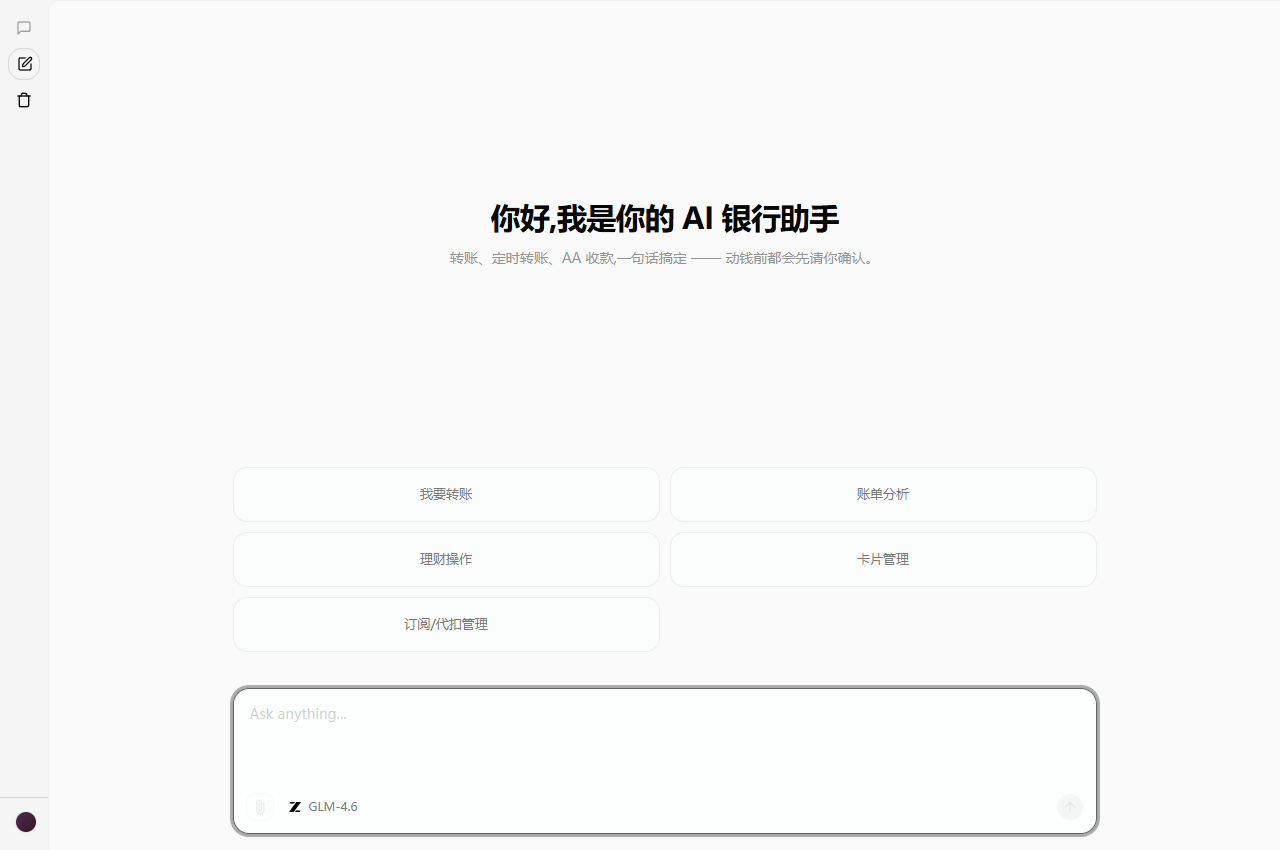
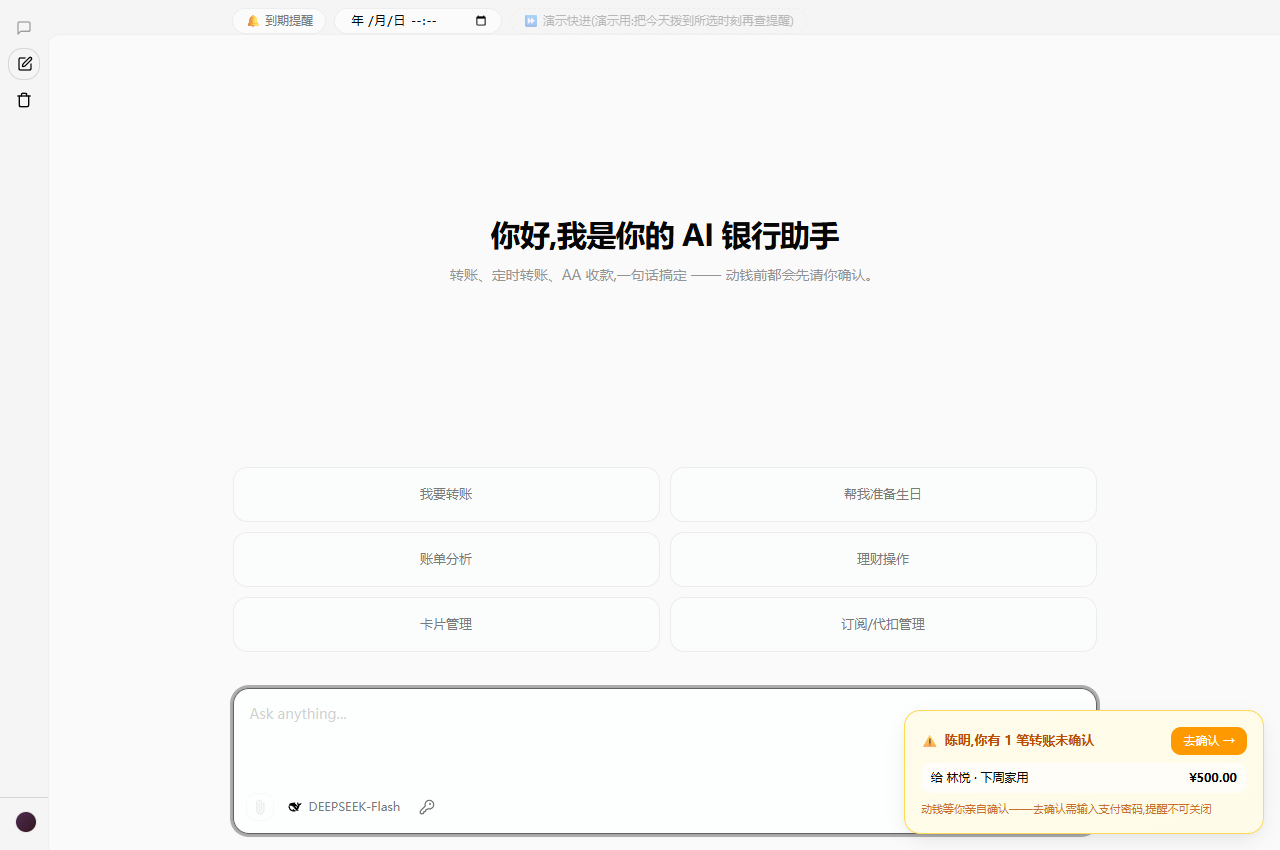
手机端 UI 适配:银行卡片窄屏排版 + 悬浮提醒让位输入区 + 手机端 e2e
审计结论先行:vercel/chatbot 模板骨架本就移动优先(侧栏底部抽屉/artifact
全屏/流式宽度),零改动继承;真正要做的是自研银行卡片与两个弹层。

- bank-parts.tsx 窄屏排版:Row 值列 min-w-0 + anywhere 换行(长限额串/
  联动预算单不再挤爆 label);联动计划动作行 flex-wrap(左右长文本可折行,
  值行右对齐);订阅行/联系人行的长文本同样兜底。
- 修实测撞出的移动端阻断 bug:待确认转账常驻提醒(fixed 右下)在 375px
  下宽 345px,整片盖住聊天输入区,有悬空单时用户无法打字——手机端改为
  顶部横幅(md+ 保持右下角卡片),基线截图 gui-test-mobile-20261014。
- 弹层宽度:model-selector(280px)/api-key-settings(w-80)改为 vw 封顶,
  320-360px 小屏不再顶出屏幕。
- 新增 webui/e2e-mobile-check.mjs:375x812 全流程(登录→转账→支付密码卡→
  扣款),硬断言无横向溢出、金色卡右边界在视口内、提醒不遮输入区,清场
  取消待确认单不留悬空资金;实测 ALL PASSED,DB 对账 executed/cancelled。
- 修 e2e-check.mjs 存量断链:2026-09-28 实名制上线后老脚本无登录步骤
  早已跑不通(铁律 4 引用的命令失效),补登录+支付密码步骤,实测恢复绿。
- test_llm_autoselect 补环境隔离(monkeypatch delenv):本机用户环境变量
  残留 ZAI_MODEL 会盖过 fallback 断言造成假失败,与代码无关但挡全绿。
- api-key-settings 顺手清掉初始快照遗留的 noJsxPropsBind lint。

验证:手机端 e2e×3 绿、桌面 e2e 修复后绿、biome+tsc 清零、全量 146 绿。

diff --git a/webui/components/chat/bank-parts.tsx b/webui/components/chat/bank-parts.tsx
@@ -192,9 +192,11 @@ function Row({ label, value }: { label: string; value: ReactNode }) {
     return null;
   }
   return (
-    <div className="flex justify-between gap-4 text-[13px]">
-      <span className="text-muted-foreground">{label}</span>
-      <span className="font-medium text-foreground">{value}</span>
+    <div className="flex items-baseline justify-between gap-4 text-[13px]">
+      <span className="shrink-0 text-muted-foreground">{label}</span>
+      <span className="min-w-0 text-right font-medium text-foreground [overflow-wrap:anywhere]">
+        {value}
+      </span>
     </div>
   );
 }
@@ -354,14 +356,14 @@ function LinkagePlanCard({ data }: { data: LinkagePlanCardData }) {
         <div className="mt-1 flex flex-col gap-1">
           {actions.map((action, index) => (
             <div
-              className="flex items-center justify-between gap-3 rounded-md bg-amber-100/50 px-2 py-1 text-[13px] dark:bg-amber-900/20"
+              className="flex flex-wrap items-baseline justify-between gap-x-3 gap-y-0.5 rounded-md bg-amber-100/50 px-2 py-1 text-[13px] dark:bg-amber-900/20"
               key={action.idx ?? index}
             >
-              <span className="font-medium">
+              <span className="min-w-0 font-medium [overflow-wrap:anywhere]">
                 {action.what}
                 {action.merchant ? `(${action.merchant})` : ""}
               </span>
-              <span className="text-muted-foreground">
+              <span className="text-right text-muted-foreground [overflow-wrap:anywhere]">
                 ¥{action.amount_yuan} · 提前 {action.days_before} 天
                 {action.run_at ? ` · ${action.run_at.slice(0, 10)}` : ""}
               </span>
@@ -547,8 +549,10 @@ function ContactChoiceRow({
       onClick={handlePick}
       type="button"
     >
-      <span className="font-medium">{candidate.name}</span>
-      <span className="text-right text-muted-foreground">
+      <span className="min-w-0 font-medium [overflow-wrap:anywhere]">
+        {candidate.name}
+      </span>
+      <span className="text-right text-muted-foreground [overflow-wrap:anywhere]">
         {[candidate.relation, candidate.note].filter(Boolean).join(" · ") ||
           candidate.phone}
       </span>
@@ -691,7 +695,7 @@ function SubscriptionRow({
         </span>
       </div>
       <div className="mt-1 flex items-center justify-between gap-3 text-[11px] text-muted-foreground">
-        <span>
+        <span className="min-w-0 [overflow-wrap:anywhere]">
           下次扣费 {item.next_charge_date ?? "—"} · 年化 ¥
           {item.annual_yuan ?? "—"}
         </span>

diff --git a/webui/components/chat/api-key-settings.tsx b/webui/components/chat/api-key-settings.tsx
@@ -22,7 +22,9 @@ import {
 const STORAGE_KEY = "zai-api-key";
 
 export function getStoredApiKey(): string {
-  if (typeof window === "undefined") return "";
+  if (typeof window === "undefined") {
+    return "";
+  }
   return window.localStorage.getItem(STORAGE_KEY) ?? "";
 }
 
@@ -45,6 +47,13 @@ export function ApiKeySettings() {
       setStatus("");
     }
   }, [open]);
+
+  const handleKeyChange = useCallback(
+    (e: React.ChangeEvent<HTMLInputElement>) => {
+      setValue(e.target.value);
+    },
+    []
+  );
 
   const handleSave = useCallback(() => {
     const v = value.trim();
@@ -108,18 +117,20 @@ export function ApiKeySettings() {
           />
         </Button>
       </PopoverTrigger>
-      <PopoverContent align="start" className="w-80 p-3" side="top">
+      <PopoverContent
+        align="start"
+        className="w-[min(20rem,calc(100vw-1.5rem))] p-3"
+        side="top"
+      >
         <div className="flex flex-col gap-2">
           <div className="text-[13px] font-medium">智谱 API Key(可选)</div>
           <div className="text-xs leading-relaxed text-muted-foreground">
             填写后对话使用你自己的 Key;留空使用部署方配置。
-            {stored
-              ? ` 当前已配置:···${stored.slice(-4)}`
-              : " 当前未配置。"}
+            {stored ? ` 当前已配置:···${stored.slice(-4)}` : " 当前未配置。"}
           </div>
           <Input
             className="h-8 text-xs"
-            onChange={(e) => setValue(e.target.value)}
+            onChange={handleKeyChange}
             placeholder="粘贴 API Key,形如 id.secret"
             type="password"
             value={value}

diff --git a/webui/components/chat/pending-transfer-toast.tsx b/webui/components/chat/pending-transfer-toast.tsx
@@ -82,11 +82,13 @@ export function PendingTransferToast() {
   return (
     <div
       aria-live="assertive"
-      className="fixed right-4 bottom-4 z-50 w-[min(92vw,360px)] rounded-2xl border border-amber-300/80 bg-gradient-to-br from-amber-50 to-yellow-50 p-4 shadow-[var(--shadow-float)] dark:border-amber-500/50 dark:from-amber-950/60 dark:to-yellow-950/40"
+      /* 手机端改顶部横幅:右下角卡片在窄屏会整片盖住聊天输入区(实测 375px 下
+         提醒卡宽 345px,输入框被拦截无法打字);桌面(md+)保持右下角原位 */
+      className="fixed inset-x-3 top-16 z-50 rounded-2xl border border-amber-300/80 bg-gradient-to-br from-amber-50 to-yellow-50 p-4 shadow-[var(--shadow-float)] dark:border-amber-500/50 dark:from-amber-950/60 dark:to-yellow-950/40 md:inset-x-auto md:right-4 md:bottom-4 md:top-auto md:w-[min(92vw,360px)]"
       role="alert"
     >
       <div className="mb-2 flex items-center justify-between gap-3">
-        <div className="flex items-center gap-1.5 text-[13px] font-semibold text-amber-700 dark:text-amber-300">
+        <div className="flex min-w-0 items-center gap-1.5 text-[13px] font-semibold text-amber-700 dark:text-amber-300">
           <span aria-hidden>⚠</span>
           {user?.nickname
             ? `${user.nickname},你有 ${pending.length} 笔转账未确认`

diff --git a/webui/components/ai-elements/model-selector.tsx b/webui/components/ai-elements/model-selector.tsx
@@ -45,7 +45,7 @@ export const ModelSelectorContent = ({
   <PopoverContent
     align="start"
     className={cn(
-      "w-[280px] p-0 rounded-xl border border-border/60 bg-card/95 backdrop-blur-xl shadow-[var(--shadow-float)]",
+      "w-[min(280px,calc(100vw-1.5rem))] p-0 rounded-xl border border-border/60 bg-card/95 backdrop-blur-xl shadow-[var(--shadow-float)]",
       className
     )}
     side="top"

diff --git a/tests/test_llm_autoselect.py b/tests/test_llm_autoselect.py
@@ -61,10 +61,18 @@ def test_result_cached_per_process():
     assert asyncio.run(second()) == "glm-5.3-flash"
 
 
-def test_request_llm_override_and_cache():
-    """BYOK 门面:请求级覆盖 key/model;同组合复用实例;缺 key 报错。"""
+def test_request_llm_override_and_cache(monkeypatch):
+    """BYOK 门面:请求级覆盖 key/model;同组合复用实例;缺 key 报错。
+
+    注意隔离真实环境:本机用户环境变量可能长期存有 ZAI_MODEL(2026-10-09 切
+    DeepSeek 时 setx 写入过)。RequestLLM 的模型优先级是 覆盖 > env > fallback,
+    不清掉 env 的话 fallback 断言会被真实环境变量盖掉而假失败。
+    """
     import asyncio
     from agent.llm import RequestLLM, reset_request_llm, set_request_llm
+
+    monkeypatch.delenv("ZAI_MODEL", raising=False)
+    monkeypatch.delenv("ZAI_API_KEY", raising=False)
 
     made = []
 

diff --git a/AGENTS.md b/AGENTS.md
@@ -90,8 +90,12 @@ data/         运行库 bank.db 等(不入库,可重播种)
 # 重播种演示数据(先停 8788/8789/8800)
 .venv/Scripts/python.exe -m bank_core.seed
 
-# 前端 e2e(转账全流程+截图)
+# 前端 e2e(转账全流程+截图;2026-10-14 起自带登录步骤)
 cd webui && node e2e-check.mjs
+
+# 手机端 e2e(375px 视口:登录→转账→支付密码卡→扣款,断言无横向溢出、
+# 悬浮提醒不遮输入区;改动银行卡片/输入区布局后必跑)
+cd webui && node e2e-mobile-check.mjs
 
 # 真实 LLM 评估(25 剧本;先 export ZAI_BASE_URL/ZAI_API_KEY/ZAI_MODEL,
 # 否则 get_llm 直接抛"未配置 API Key")
